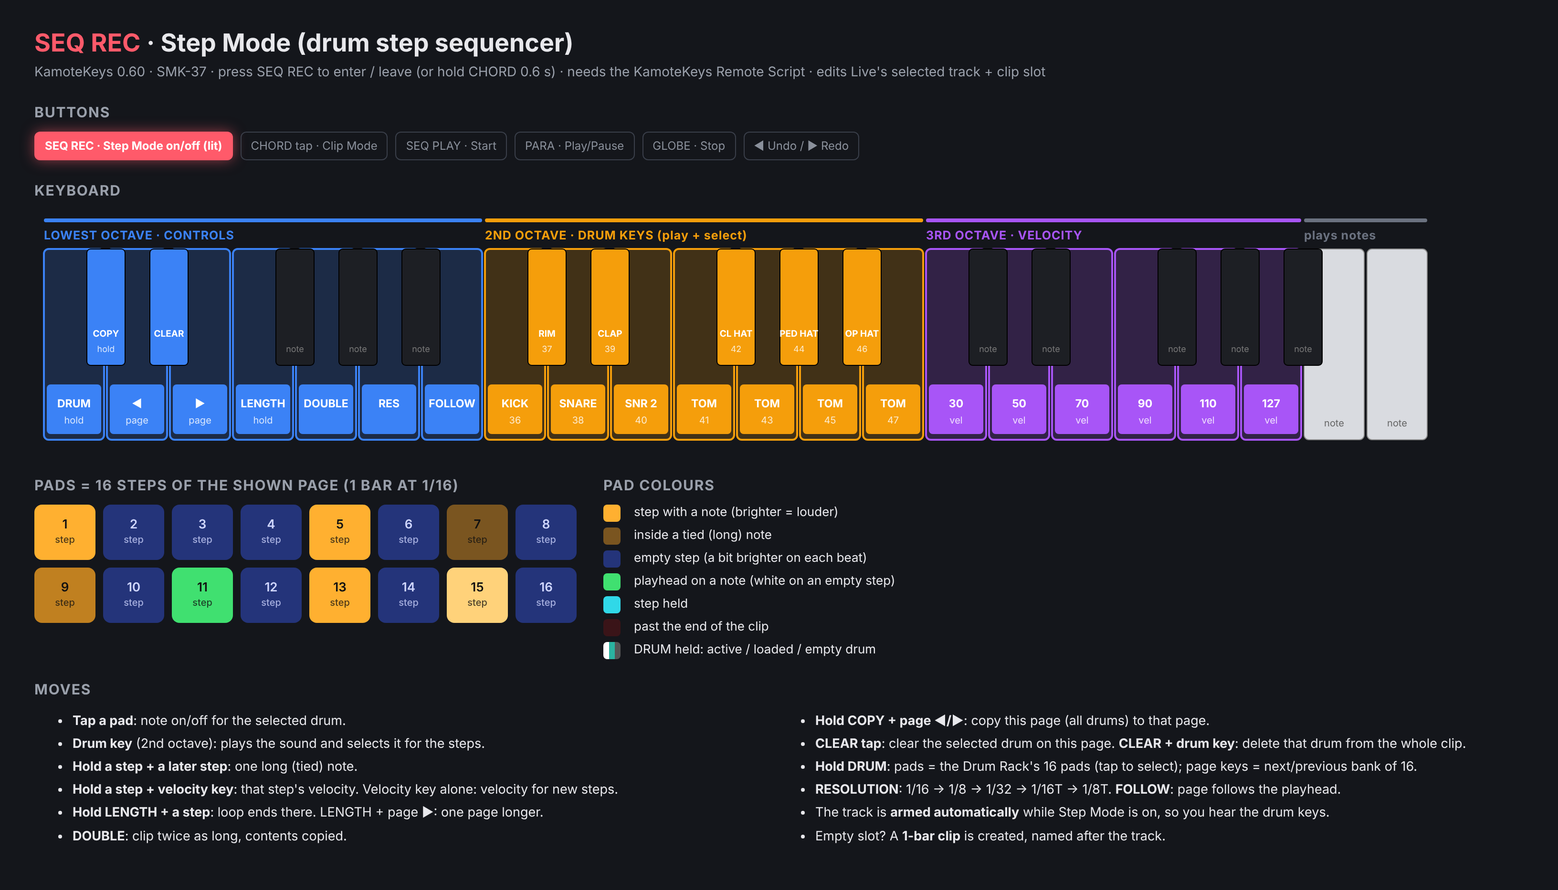
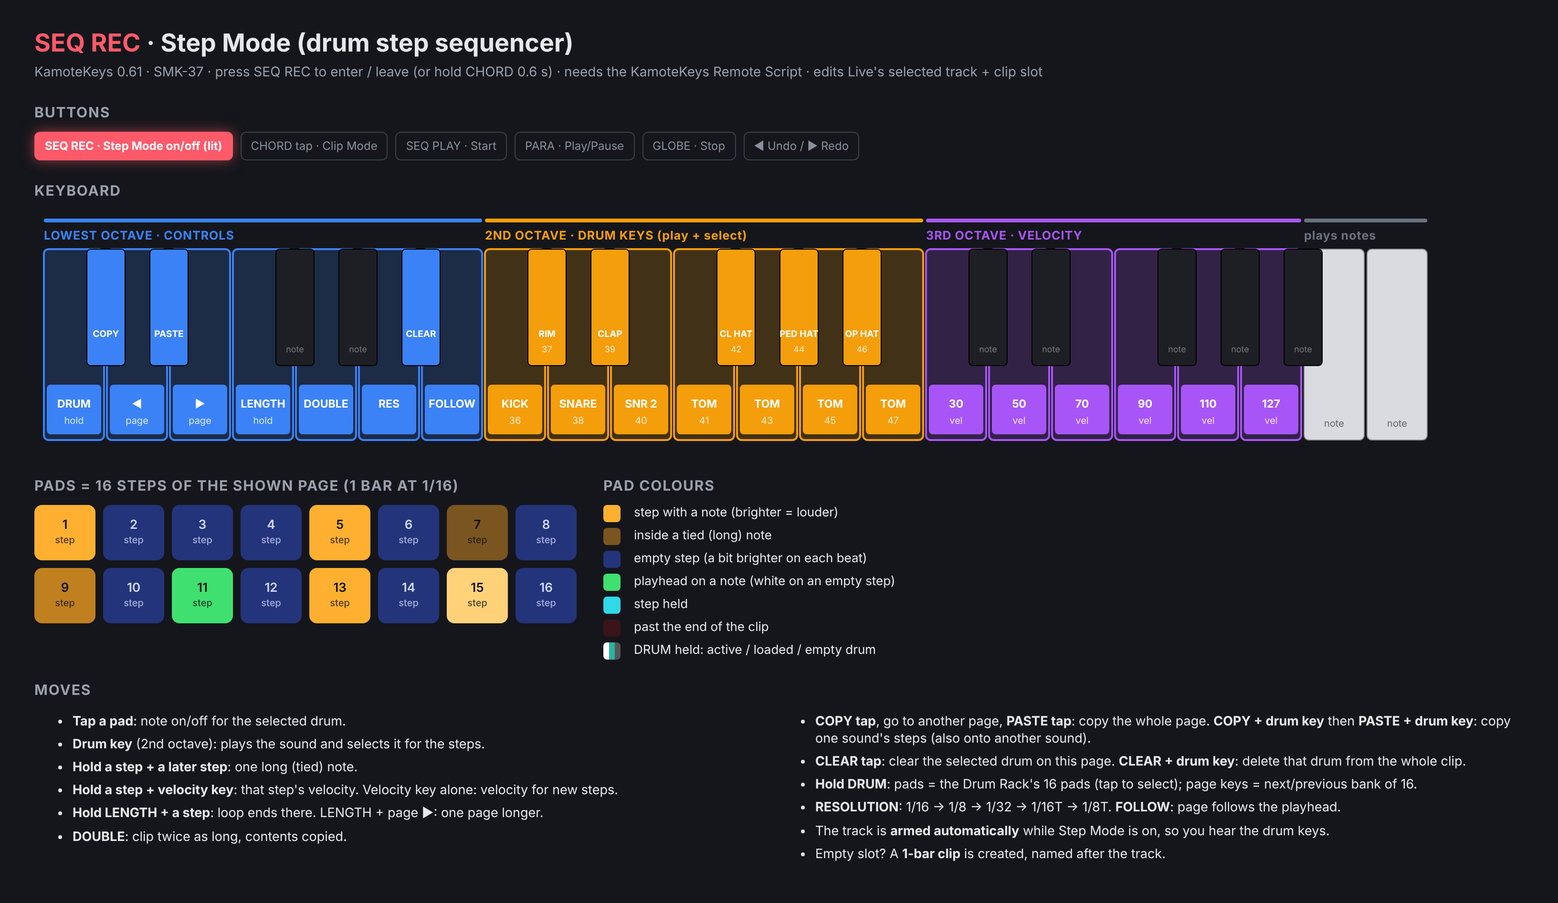
KamoteKeys 0.61: Step Mode COPY/PASTE/CLEAR on the lowest black keys; drum keys reach the script as notes (fix)
Claude-Session: https://claude.ai/code/session_014nKCDtX9z2HT4cnrjTFgfW

diff --git a/remote_script/KamoteKeys/StepSequencer.py b/remote_script/KamoteKeys/StepSequencer.py
@@ -34,11 +34,11 @@ STEP_CHANNEL = 13                      # MIDI channel 14
 PAD_NOTE = 36
 PADS = 16
 (F_DRUM, F_PAGE_PREV, F_PAGE_NEXT, F_LENGTH, F_DOUBLE, F_RESOLUTION, F_FOLLOW, F_COPY, F_CLEAR,
- F_VEL_1, F_VEL_2, F_VEL_3, F_VEL_4, F_VEL_5, F_VEL_6, F_VEL_DOWN, F_VEL_UP) = range(60, 77)
-FUNCTION_NOTES = tuple(range(60, 77))
+ F_VEL_1, F_VEL_2, F_VEL_3, F_VEL_4, F_VEL_5, F_VEL_6, F_VEL_DOWN, F_VEL_UP, F_PASTE) = range(60, 78)
+FUNCTION_NOTES = tuple(range(60, 78))
+DRUM_NOTE = 80                         # device -> host: notes 80..95 = drum key 0..15 of the bank (0.61)
 CODE_CC, PAGE_CC, PAGES_CC, RES_CC, FOLLOW_CC, STATUS_CC, DRUMVIEW_CC, ACTIVE_CC = 80, 96, 97, 98, 99, 100, 101, 102
 BANK_CC = 103                          # host -> device: first note of the drum bank
-SELECT_CC = 104                        # device -> host: drum key 0..15 of the bank pressed (0.60)
 MODE_CC = 127
 
 # Pad colour codes (KK_STEPC_* in the firmware).
@@ -85,7 +85,8 @@ class StepSequencer(object):
         self._sent = [None] * PADS
         self._info_sent = {}
         self._armed = None             # track this mode armed (disarmed again on exit)
-        self._clear_used = False       # CLEAR held and used with a drum key
+        self._used = set()             # COPY / PASTE / CLEAR held and already used with another key
+        self._clipboard = None         # (lane pitch or None, [(pitch, offset, duration, velocity, mute)])
 
     # ------------------------------------------------------------ helpers
     def _log(self, text):
@@ -138,7 +139,7 @@ class StepSequencer(object):
             self._active = False
             self._disarm()
             self._unbind()
-            self._held, self._fn, self._consumed = [], set(), set()
+            self._held, self._fn, self._consumed, self._used = [], set(), set(), set()
             self._log('Step Mode ended')
 
     def _unbind(self):
@@ -452,14 +453,19 @@ class StepSequencer(object):
             return
         if not pressed:
             self._fn.discard(note)
-            if note == F_CLEAR and not self._clear_used:
-                self._clear_page()     # a plain tap clears the active drum on the page
-                self._dirty = True
+            if note not in self._used:          # plain taps act on release
+                if note == F_CLEAR:
+                    self._clear_page()
+                elif note == F_COPY:
+                    self._copy(None)
+                elif note == F_PASTE:
+                    self._paste(None)
+            self._used.discard(note)
+            self._dirty = True
             self.update()
             return
         self._fn.add(note)
-        if note == F_CLEAR:
-            self._clear_used = False
+        self._used.discard(note)
         if note in (F_PAGE_PREV, F_PAGE_NEXT):
             self._page_key(-1 if note == F_PAGE_PREV else 1)
         elif note == F_DOUBLE:
@@ -624,6 +630,7 @@ class StepSequencer(object):
             self._bank = max(0, min(112, self._bank + 16 * delta))
             self._say('drum bank %d-%d' % (self._bank, self._bank + 15))
         elif F_COPY in self._fn:
+            self._used.add(F_COPY)
             self._copy_page(self._page + delta)
         else:
             limit = self._pages() - 1 + (F_LENGTH in self._fn)   # one page past the end while LENGTH is held
@@ -637,12 +644,63 @@ class StepSequencer(object):
         if not self._active or not 0 <= index < PADS:
             return
         note = self._bank + index
+        self._log('drum key %d -> note %d' % (index, note))
         if F_CLEAR in self._fn:
-            self._clear_used = True
+            self._used.add(F_CLEAR)
             self._clear_drum(note)
+        elif F_COPY in self._fn:
+            self._used.add(F_COPY)
+            self._copy(note)
+        elif F_PASTE in self._fn:
+            self._used.add(F_PASTE)
+            self._paste(note)
         else:
             self._select_drum(note)
         self.update()
+
+    # Copy / paste (0.61, like Move's Copy button): COPY copies the shown page
+    # (all drums) or, with a drum key, that drum's lane on the page; PASTE
+    # puts it on the shown page (a lane goes to the drum key held, else to the
+    # active drum).
+    def _copy(self, lane):
+        if self._clip is None:
+            return
+        span, src = self._span(), self._step_time(0)
+        try:
+            if lane is None:
+                notes = self._clip.get_notes_extended(0, 128, src - EPS, span)
+            else:
+                notes = self._clip.get_notes_extended(lane, 1, src - EPS, span)
+            self._clipboard = (lane, [(n.pitch, n.start_time - src, n.duration, n.velocity, n.mute) for n in notes])
+            self._say('copied %s of page %d' % ('all drums' if lane is None else 'drum %d' % lane, self._page + 1))
+        except Exception as error:
+            self._log('cannot copy: %s' % error)
+
+    def _paste(self, target):
+        if self._clipboard is None:
+            self._say('nothing copied yet')
+            return
+        if not self._ensure_clip():
+            return
+        lane, notes = self._clipboard
+        span, dst = self._span(), self._step_time(0)
+        try:
+            if lane is None and target is None:
+                self._clip.remove_notes_extended(0, 128, dst - EPS, span)
+                specs = [self._spec(p, dst + o, d, v, m) for p, o, d, v, m in notes]
+            else:
+                pitch = target if target is not None else (self._pitch if lane is not None else None)
+                source = [n for n in notes if lane is not None or n[0] == self._pitch]
+                self._clip.remove_notes_extended(pitch, 1, dst - EPS, span)
+                specs = [self._spec(pitch, dst + o, d, v, m) for p, o, d, v, m in source]
+            if dst + span > self._clip.loop_end + EPS:
+                self._set_length(dst + span - self._start())
+            if specs:
+                self._clip.add_new_notes(tuple(specs))
+            self._say('pasted onto page %d' % (self._page + 1))
+        except Exception as error:
+            self._log('cannot paste: %s' % error)
+        self._dirty = True
 
     def _clear_drum(self, note):
         if self._clip is None:

diff --git a/tests/remote_script/test_kamotkeys_script.py b/tests/remote_script/test_kamotkeys_script.py
@@ -141,7 +141,7 @@ class T(unittest.TestCase):
         notes = sorted(b.identifier for b in registry if b.msg_type == 0 and b.channel == 15)
         self.assertEqual(notes, list(range(36, 100)))     # launch, overdub, delete, select
         steps = sorted(b.identifier for b in registry if b.msg_type == 0 and b.channel == 13)
-        self.assertEqual(steps, list(range(36, 52)) + list(range(60, 77)))   # step pads, step functions
+        self.assertEqual(steps, list(range(36, 52)) + list(range(60, 78)) + list(range(80, 96)))   # step pads, functions, drum keys
         self.assertTrue(all(b.channel in (13, 14, 15) for b in registry))
         self.assertEqual(deliver((0x90, 60, 100)), 0)             # channel 1 notes pass to tracks
 
@@ -406,20 +406,35 @@ class StepTest(unittest.TestCase):
         self.assertIs(self.song.track.devices[0].view.selected_drum_pad, self.song.track.devices[0].drum_pads[38])
         self.tap(3); self.assertEqual([n.pitch for n in self.clip.notes], [38])
 
+    def drum(self, i): deliver((0x9D, 80 + i, 127)); deliver((0x8D, 80 + i, 0))
+    def pitches(self): return sorted((n.pitch, n.start_time) for n in self.clip.notes)
+
     def test_drum_keys_clear_and_auto_arm(self):
-        """0.60, Move-style: drum keys select the sound, CLEAR + drum key
-        deletes that sound, a CLEAR tap clears the page, the track is armed."""
+        """Move-style: drum keys select the sound (kick = drum key 0 too),
+        CLEAR + drum key deletes that sound, a CLEAR tap clears the page,
+        the track is armed while Step Mode is on."""
         self.mode(True)
         self.assertTrue(self.song.track.arm); self.assertEqual(self.info(103), 36)
-        deliver((0xBD, 104, 2)); self.s.update_display()                  # drum key D = 38 (snare)
-        self.assertEqual(self.info(102), 38)
-        self.tap(0); self.tap(4); deliver((0xBD, 104, 0)); self.tap(2)    # snare x2, kick x1
-        self.assertEqual(sorted(n.pitch for n in self.clip.notes), [36, 38, 38])
-        self.fn(68); deliver((0xBD, 104, 2)); self.fn(68, False)          # CLEAR + snare key
-        self.assertEqual([n.pitch for n in self.clip.notes], [36])
-        self.assertEqual(self.info(102), 36)                              # active drum unchanged
+        self.drum(2); self.s.update_display(); self.assertEqual(self.info(102), 38)     # snare
+        self.tap(0); self.tap(4)
+        self.drum(0); self.s.update_display(); self.assertEqual(self.info(102), 36)     # kick, then a pad
+        self.tap(2)
+        self.assertEqual(self.pitches(), [(36, 0.5), (38, 0.0), (38, 1.0)])
+        self.fn(68); self.drum(2); self.fn(68, False)                     # CLEAR + snare key
+        self.assertEqual(self.pitches(), [(36, 0.5)]); self.assertEqual(self.info(102), 36)
         self.press(68); self.assertEqual(self.clip.notes, [])              # CLEAR tap = clear page
         self.mode(False); self.assertFalse(self.song.track.arm)           # auto-arm released
+
+    def test_copy_paste(self):
+        self.mode(True); self.tap(0); self.drum(2); self.tap(4)            # kick step 1, snare step 5
+        self.press(67)                                                     # COPY tap = whole page
+        self.fn(63); self.press(62); self.pad(15); self.pad(15, False); self.fn(63, False)   # 2 bars
+        self.press(62); self.press(77)                                     # page 2, PASTE
+        self.assertEqual(self.pitches(), [(36, 0.0), (36, 4.0), (38, 1.0), (38, 5.0)])
+        self.fn(67); self.drum(2); self.fn(67, False)                      # COPY + snare key = snare lane
+        self.fn(77); self.drum(6); self.fn(77, False)                      # PASTE + key 6 (42) = onto the hat
+        self.assertIn((42, 5.0), self.pitches())
+        self.assertEqual(len(self.clip.notes), 5)
 
     def test_length_double_resolution_and_follow(self):
         self.mode(True)

diff --git a/remote_script/KamoteKeys/KamoteKeys.py b/remote_script/KamoteKeys/KamoteKeys.py
@@ -36,7 +36,7 @@ from _Framework.ButtonElement import ButtonElement
 from _Framework.InputControlElement import MIDI_NOTE_TYPE, MIDI_CC_TYPE
 
 from .StepSequencer import StepSequencer, STEP_CHANNEL, PAD_NOTE as STEP_PAD_NOTE, PADS as STEP_PADS, \
-    FUNCTION_NOTES as STEP_FUNCTION_NOTES, MODE_CC as STEP_MODE_CC, SELECT_CC as STEP_SELECT_CC
+    FUNCTION_NOTES as STEP_FUNCTION_NOTES, MODE_CC as STEP_MODE_CC, DRUM_NOTE as STEP_DRUM_NOTE
 
 PROTOCOL = 1
 CLIP_CHANNEL = 15            # MIDI channel 16 (zero based)
@@ -87,14 +87,13 @@ class KamoteKeys(ControlSurface):
             self._sync.add_value_listener(self._sync_value)
             # Step Mode (channel 14): step pads, function keys, mode on/off.
             self._step_buttons = []
-            for note in [STEP_PAD_NOTE + i for i in range(STEP_PADS)] + list(STEP_FUNCTION_NOTES):
+            for note in [STEP_PAD_NOTE + i for i in range(STEP_PADS)] + list(STEP_FUNCTION_NOTES) + \
+                    [STEP_DRUM_NOTE + i for i in range(STEP_PADS)]:
                 button = ButtonElement(True, MIDI_NOTE_TYPE, STEP_CHANNEL, note)
                 button.add_value_listener(self._step_value, identify_sender=True)
                 self._step_buttons.append(button)
             self._step_mode = ButtonElement(True, MIDI_CC_TYPE, STEP_CHANNEL, STEP_MODE_CC)
             self._step_mode.add_value_listener(self._step_mode_value)
-            self._step_drum = ButtonElement(False, MIDI_CC_TYPE, STEP_CHANNEL, STEP_SELECT_CC)
-            self._step_drum.add_value_listener(self._step_drum_value)
             self._transport_buttons = []
             for cc in TRANSPORT_CCS:
                 button = ButtonElement(True, MIDI_CC_TYPE, TRANSPORT_CHANNEL, cc)
@@ -127,14 +126,13 @@ class KamoteKeys(ControlSurface):
     def _step_value(self, value, sender):
         self._first_message()
         note = sender.message_identifier()
-        if note < STEP_PAD_NOTE + STEP_PADS:
+        if note >= STEP_DRUM_NOTE:
+            if value:
+                self._step.drum_key(note - STEP_DRUM_NOTE)
+        elif note < STEP_PAD_NOTE + STEP_PADS:
             self._step.pad(note - STEP_PAD_NOTE, bool(value))
         else:
             self._step.function(note, bool(value))
-
-    def _step_drum_value(self, value):
-        self._first_message()
-        self._step.drum_key(value)
 
     def _step_mode_value(self, value):
         self._first_message()

diff --git a/tests/host/test_features.c b/tests/host/test_features.c
@@ -42,14 +42,18 @@ void test_step_mode(void)
           "C = DRUM (hold), D = page prev");
     host_clear(); key(24, 100); key(24, 0); key(6, 100); key(6, 0);
     CHECK(out_count(USB, 0x9D, KK_STEP_VEL_1) == 1 && out_count(USB, 0x90, 54) == 1, "C4 = velocity 1, F# still plays");
-    host_clear(); key(1, 100); key(1, 0); key(3, 100); key(3, 0);
-    CHECK(out_count(USB, 0x9D, KK_STEP_COPY) == 1 && out_count(USB, 0x9D, KK_STEP_CLEAR) == 1, "C# = COPY, D# = CLEAR");
+    host_clear(); key(1, 100); key(1, 0); key(3, 100); key(3, 0); key(10, 100); key(10, 0);
+    CHECK(out_count(USB, 0x9D, KK_STEP_COPY) == 1 && out_count(USB, 0x9D, KK_STEP_PASTE) == 1 && out_count(USB, 0x9D, KK_STEP_CLEAR) == 1,
+          "C# = COPY, D# = PASTE, A# = CLEAR");
     /* 0.60: second octave = drum keys (Move-style drum pads). */
     host_clear(); key(12, 100);
-    CHECK(out_count(USB, 0x99, 36) == 1 && last_out(USB, 0xBD, 0) == (KK_STEP_SELECT_CC | 0 << 8), "2nd-octave C = kick (ch 10 note 36) + selects drum 0");
+    CHECK(out_count(USB, 0x99, 36) == 1 && out_count(USB, 0x9D, KK_STEP_DRUM_NOTE) == 1 && out_count(USB, 0x8D, KK_STEP_DRUM_NOTE) == 1,
+          "2nd-octave C = kick (ch 10 note 36) + selects drum 0 (ch 14 note 80)");
+    pad(1, 90); pad(1, 0);
+    CHECK(out_count(USB, 0x9D, 36) == 1 && out_count(USB, 0x8D, 36) == 1, "a pad after a drum key still sends its step");
     key(12, 0); CHECK(out_count(USB, 0x89, 36) == 1, "drum key release = note off");
     host_in(0xBD, KK_STEP_BANK_CC, 52); host_clear(); key(23, 90); key(23, 0);
-    CHECK(out_count(USB, 0x99, 63) == 1 && last_out(USB, 0xBD, 0) == (KK_STEP_SELECT_CC | 11 << 8), "B = drum 12 of the bank from the script (63)");
+    CHECK(out_count(USB, 0x99, 63) == 1 && out_count(USB, 0x9D, KK_STEP_DRUM_NOTE + 11) == 1, "B = drum 12 of the bank from the script (63)");
     tap(KK_BTN_ARP); host_clear(); key(14, 100); key(14, 0); tap(KK_BTN_ARP);
     CHECK(out_count(USB, 0x99, 54) == 1, "drum keys ignore the ARP");
     host_in(0xBD, KK_STEP_BANK_CC, 36);

diff --git a/core/kamotkeys/kk_config.h b/core/kamotkeys/kk_config.h
@@ -12,7 +12,7 @@
 #define KK_CONFIG_H
 
 #define KAMOTKEYS_NAME "KamoteKeys"
-#define KAMOTKEYS_VERSION "0.60" KK_DEVICE_SUFFIX
+#define KAMOTKEYS_VERSION "0.61" KK_DEVICE_SUFFIX
 #define KAMOTKEYS_TITLE KAMOTKEYS_NAME " " KAMOTKEYS_VERSION
 
 /* MIDI channels, zero based (channel 1 = 0). */
@@ -56,7 +56,7 @@ enum {
 /* Step Mode protocol (channel 14, 0.58), shared with remote_script/KamoteKeys.
  *  device -> host: Note 36+pad = step pad 1..16 (press / release)
  *                  Note 60.. = function keys (KK_STEP_*; press / release)
- *                  CC 104 = drum key pressed (0..15 = drum of the bank, 0.60)
+ *                  Note 80+i = drum key i of the bank pressed (0.61; on + off at once)
  *                  CC 127 = 127 entering Step Mode (send everything), 0 leaving
  *  host -> device: CC 80+pad = pad colour code (KK_STEPC_*)
  *                  CC 96 page, 97 page count, 98 resolution, 99 follow,
@@ -67,10 +67,11 @@ enum {
     KK_STEP_DRUM = 60, KK_STEP_PAGE_PREV, KK_STEP_PAGE_NEXT, KK_STEP_LENGTH, KK_STEP_DOUBLE,
     KK_STEP_RESOLUTION, KK_STEP_FOLLOW, KK_STEP_COPY, KK_STEP_CLEAR,
     KK_STEP_VEL_1, KK_STEP_VEL_2, KK_STEP_VEL_3, KK_STEP_VEL_4, KK_STEP_VEL_5, KK_STEP_VEL_6,
-    KK_STEP_VEL_DOWN, KK_STEP_VEL_UP,
+    KK_STEP_VEL_DOWN, KK_STEP_VEL_UP, KK_STEP_PASTE,
+    KK_STEP_DRUM_NOTE = 80,
     KK_STEP_CODE_CC = 80, KK_STEP_PAGE_CC = 96, KK_STEP_PAGES_CC = 97, KK_STEP_RES_CC = 98,
     KK_STEP_FOLLOW_CC = 99, KK_STEP_STATUS_CC = 100, KK_STEP_DRUMVIEW_CC = 101, KK_STEP_ACTIVE_CC = 102,
-    KK_STEP_BANK_CC = 103, KK_STEP_SELECT_CC = 104,
+    KK_STEP_BANK_CC = 103,
     KK_STEP_SYNC_CC = 127
 };
 /* Pad colour codes sent by the script (rendered by kk_led.c). */

diff --git a/devices/smk37/app/kamotkeys/kk_device.h b/devices/smk37/app/kamotkeys/kk_device.h
@@ -54,8 +54,9 @@ static inline int kk_step_key_function(unsigned key)
     case 7: return KK_STEP_DOUBLE;      /* G */
     case 9: return KK_STEP_RESOLUTION;  /* A */
     case 11: return KK_STEP_FOLLOW;     /* B */
-    case 1: return KK_STEP_COPY;        /* C# hold + page = copy page */
-    case 3: return KK_STEP_CLEAR;       /* D# tap: clear the page; hold + drum key: clear that drum */
+    case 1: return KK_STEP_COPY;        /* C# tap: copy the page; + drum key: copy that drum */
+    case 3: return KK_STEP_PASTE;       /* D# tap: paste onto the page; + drum key: onto that drum */
+    case 10: return KK_STEP_CLEAR;      /* A# tap: clear the page; + drum key: clear that drum */
     case 24: return KK_STEP_VEL_1;      /* C  velocity levels (hold a step) */
     case 26: return KK_STEP_VEL_2;
     case 28: return KK_STEP_VEL_3;

diff --git a/docs/ABLETON_REMOTE_SCRIPT.md b/docs/ABLETON_REMOTE_SCRIPT.md
@@ -117,12 +117,13 @@ All buttons send 127 on press and 0 on release (KNOB BANK and FADER BANK send on
 
 | Octave | Keys |
 |---|---|
-| lowest (controls) | white: DRUM, page ◀, page ▶, LENGTH, DOUBLE, RESOLUTION, FOLLOW; black: C# = COPY, D# = CLEAR |
+| lowest (controls) | white: DRUM, page ◀, page ▶, LENGTH, DOUBLE, RESOLUTION, FOLLOW; black: C# = COPY, D# = PASTE, A# = CLEAR |
 | second (drum keys) | C … B = sounds 1–12 of the Drum Rack bank (C = kick, D = snare, F# = closed hat … in a standard kit) |
 | third | white C–A = velocity 30 / 50 / 70 / 90 / 110 / 127 |
 
 - **Drum keys** (second octave): the first 12 sounds of the Drum Rack bank (C = 36 in the first bank). Pressing one **plays it** (on the armed track and the internal drum kit) and **makes it the sound the steps edit**, like tapping a drum pad on Move. Sounds 13–16 and other banks: hold DRUM (lowest C) and use the pads / page keys; the drum keys then follow that bank.
-- **CLEAR + drum key** deletes every note of that sound in the clip (Move: Delete + pad). A plain **CLEAR tap** clears the active sound on the shown page.
+- **COPY / PASTE** (C# / D#): tap COPY to copy the shown page (all drums), go to another page and tap PASTE to replace that page with it. **COPY + drum key** copies just that sound's steps on the page; **PASTE + drum key** pastes them onto that sound (a plain PASTE tap puts a copied sound on the active drum).
+- **CLEAR + drum key** (A#) deletes every note of that sound in the clip (Move: Delete + pad). A plain **CLEAR tap** clears the active sound on the shown page.
 - **Auto-arm**: entering Step Mode arms the sequenced track (if it was not armed) so the keys are heard; leaving disarms it again.
 
 | Function | SMK-37 key | FM-1 key |
@@ -133,12 +134,13 @@ All buttons send 127 on press and 0 on release (KNOB BANK and FADER BANK send on
 | **DOUBLE** (twice as long, contents copied, like Move's Double Loop) | G | D# |
 | **RESOLUTION** (1/16 → 1/8 → 1/32 → 1/16T → 1/8T, same for every page) | A | F# (2nd) |
 | **FOLLOW** on/off (page follows the playhead; off by default) | B | G# (2nd) |
-| **COPY** (hold + page ◀/▶ = copy the shown page, all drums, onto that page) | C# (lowest) | A# (2nd) |
-| **CLEAR** (tap: the active drum on the shown page; hold + drum key: that drum in the whole clip) | D# (lowest) | C# (2nd) |
+| **COPY** (tap: copy the page; + drum key: copy that sound; + page ◀/▶: copy the page straight onto that page) | C# (lowest) | A# (2nd) |
+| **PASTE** (tap: paste onto the shown page; + drum key: paste onto that sound) | D# (lowest) | — |
+| **CLEAR** (tap: the active drum on the shown page; hold + drum key: that drum in the whole clip) | A# (lowest) | C# (2nd) |
 | **Velocity**: hold a step + a velocity key; without a held step it sets the velocity for new steps | white keys C–A of the 3rd octave: 30 / 50 / 70 / 90 / 110 / 127 | D# / F# (top): down / up |
 | **Tie / long note**: hold a step and press a later one | pads | white keys |
 
-On the SMK-37 the remaining keys (F#, G#, A# of the lowest octave and everything above the third octave) still play notes. The screen shows the page (e.g. PAGE 2/4), the resolution, FOLLOW, and NO DRUM RACK (steps then use C1) or SELECT A MIDI TRACK.
+On the SMK-37 the remaining keys (F# and G# of the lowest octave and everything above the third octave) still play notes. The screen shows the page (e.g. PAGE 2/4), the resolution, FOLLOW, and NO DRUM RACK (steps then use C1) or SELECT A MIDI TRACK.
 
 **Edge cases:** no Drum Rack → steps still work on C1; the clip or track deleted, the selection or the clip length changed with the mouse → the mode rebinds itself (deferred, never inside a Live notification). Messages go to Live's `Log.txt` as `KamoteKeys step: ...` and to the status bar.
 

diff --git a/README.md b/README.md
@@ -170,7 +170,7 @@ The pad of Live's highlighted slot is **violet** (pulsing if it is playing or re
 
 ### Step Mode (SEQ REC, or hold CHORD)
 
-A drum step sequencer that writes straight into the selected session clip in Live, laid out like Ableton Move: 16 pads = 16 steps per page; the **second octave = drum keys** (C = kick, C# = rim, D = snare … B, the first 12 sounds of the Drum Rack bank): a drum key plays its sound and selects it for the steps. The **lowest octave = controls** (page, length, double, resolution, follow on the white keys; COPY on C#, CLEAR on D#: tap = clear the page, hold + drum key = delete that sound), velocity on the third octave's white keys. The sequenced track is armed while Step Mode is on so you hear the drum keys. Needs the Remote Script; full guide in [docs/ABLETON_REMOTE_SCRIPT.md](docs/ABLETON_REMOTE_SCRIPT.md#step-mode-drum-step-sequencer-058).
+A drum step sequencer that writes straight into the selected session clip in Live, laid out like Ableton Move: 16 pads = 16 steps per page; the **second octave = drum keys** (C = kick, C# = rim, D = snare … B, the first 12 sounds of the Drum Rack bank): a drum key plays its sound and selects it for the steps. The **lowest octave = controls** (page, length, double, resolution, follow on the white keys; black keys: C# = COPY, D# = PASTE (tap = the whole page; hold + drum key = just that sound), A# = CLEAR (tap = the page, hold + drum key = delete that sound)), velocity on the third octave's white keys. The sequenced track is armed while Step Mode is on so you hear the drum keys. Needs the Remote Script; full guide in [docs/ABLETON_REMOTE_SCRIPT.md](docs/ABLETON_REMOTE_SCRIPT.md#step-mode-drum-step-sequencer-058).
 
 ### Pad Scale Mode (SCALE)
 

diff --git a/CHANGELOG.md b/CHANGELOG.md
@@ -1,5 +1,11 @@
 # Changelog
 
+## KamoteKeys 0.61 (development snapshot)
+
+- **Step Mode COPY / PASTE / CLEAR on the lowest octave's black keys (SMK-37):** C# = COPY, D# = PASTE, A# = CLEAR. COPY tap copies the shown page, PASTE tap replaces the shown page with it; with a drum key held they copy / paste just that sound (paste onto another sound works too). CLEAR as before.
+- **Fix: a pad after a drum key did nothing in Live.** The drum key now reaches the Remote Script as a channel 14 note (80–95), the same path as the step pads, instead of a CC (the kick's CC value was 0). The script logs `KamoteKeys step: drum key ...` to Log.txt.
+- Needs the updated Remote Script.
+
 ## KamoteKeys 0.60 (development snapshot)
 
 - **Step Mode laid out like Ableton Move (SMK-37):** the second octave is 12 **drum keys** (C = kick, the first 12 sounds of the Drum Rack bank): a key plays its sound and selects it for the steps. COPY and CLEAR move to C# / D# of the lowest octave, so that octave holds all the controls.

diff --git a/docs/MIDI_MAPPING.md b/docs/MIDI_MAPPING.md
@@ -122,7 +122,8 @@ Feedback from the Remote Script: CC 80–95 = state 0 empty, 1 stopped, 2 playin
 |---|---|---|
 | keyboard → Live | Note 36–51 | step pads 1–16 (press / release) |
 | keyboard → Live | Note 60–76 | DRUM, page ◀, page ▶, LENGTH, DOUBLE, RESOLUTION, FOLLOW, COPY, CLEAR, velocity 1–6, velocity down, velocity up |
-| keyboard → Live | CC 104 | drum key pressed: 0–15 = drum of the current bank (SMK-37 second octave) |
+| keyboard → Live | Note 77 | PASTE |
+| keyboard → Live | Note 80–95 | drum key 1–16 of the current bank pressed (SMK-37 second octave; on + off at once) |
 | keyboard → Live | Note on channel 10 | the drum key's own note (bank + key), so the armed track and the internal drum kit play it |
 | keyboard → Live | CC 127 | 127 = Step Mode started, 0 = ended |
 | Live → keyboard | CC 80–95 | pad colour code |
